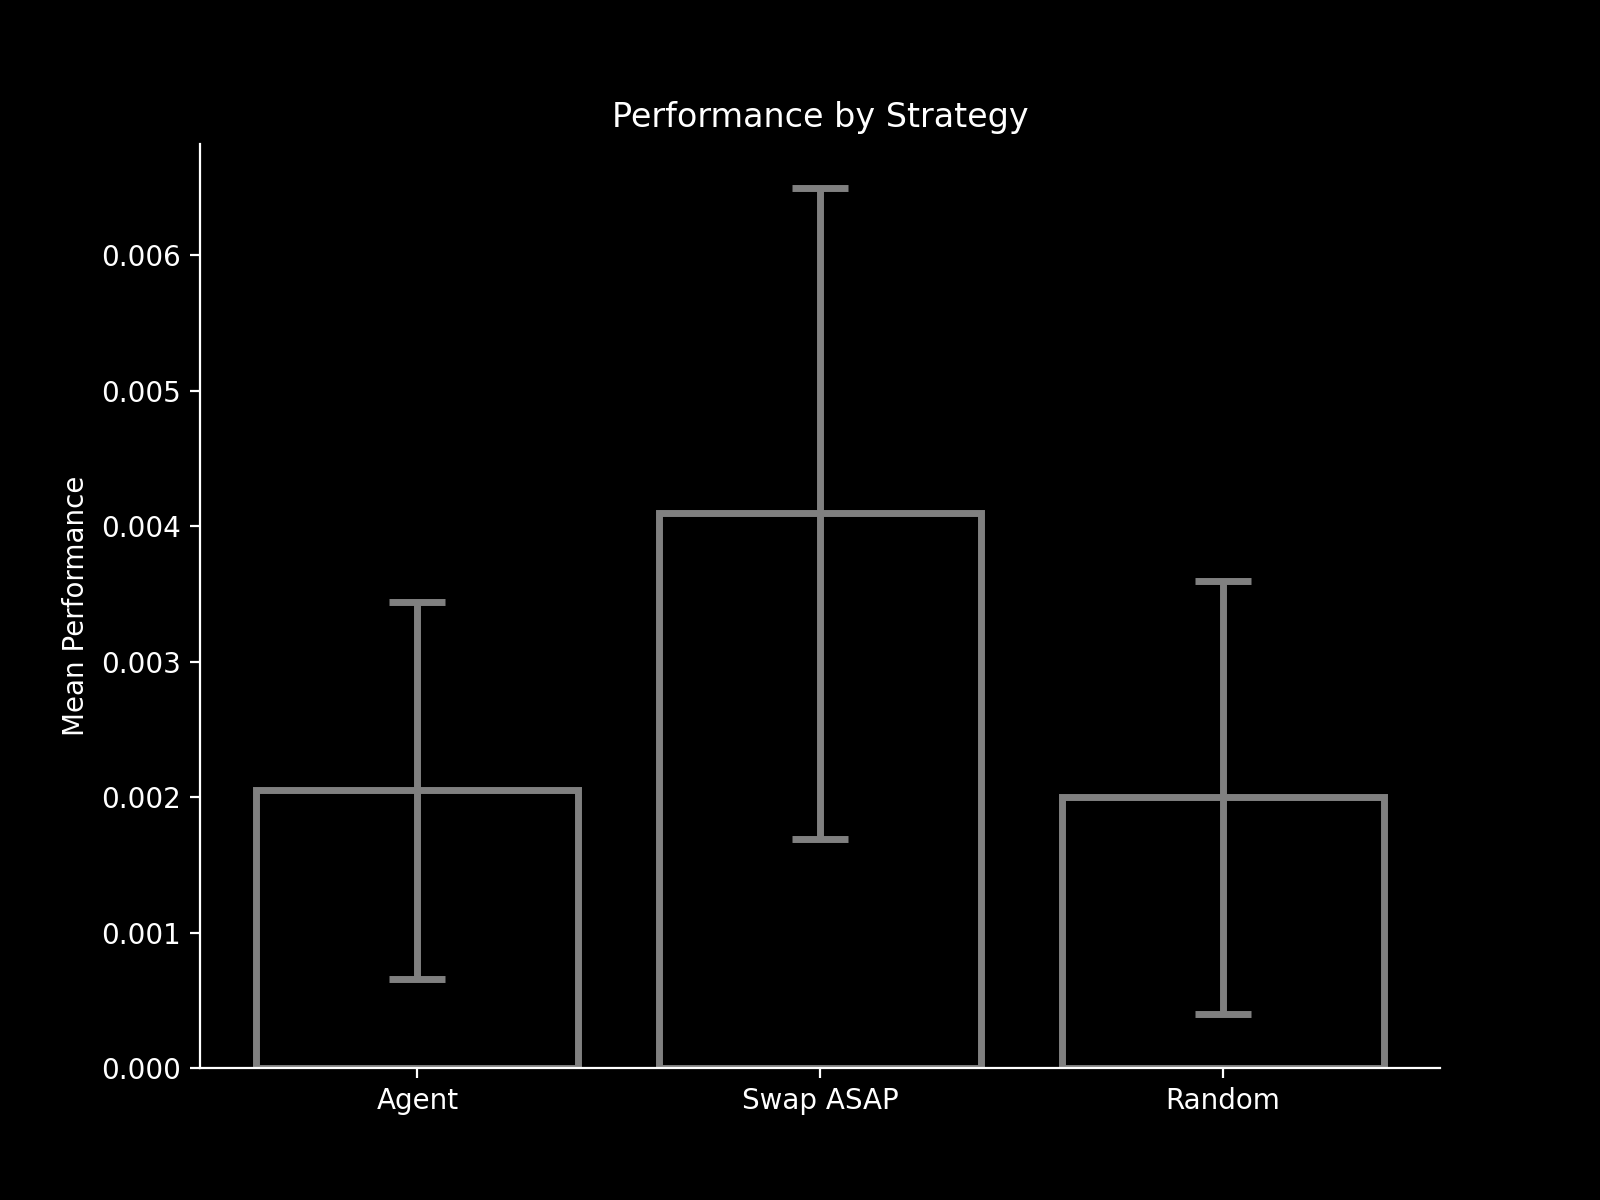
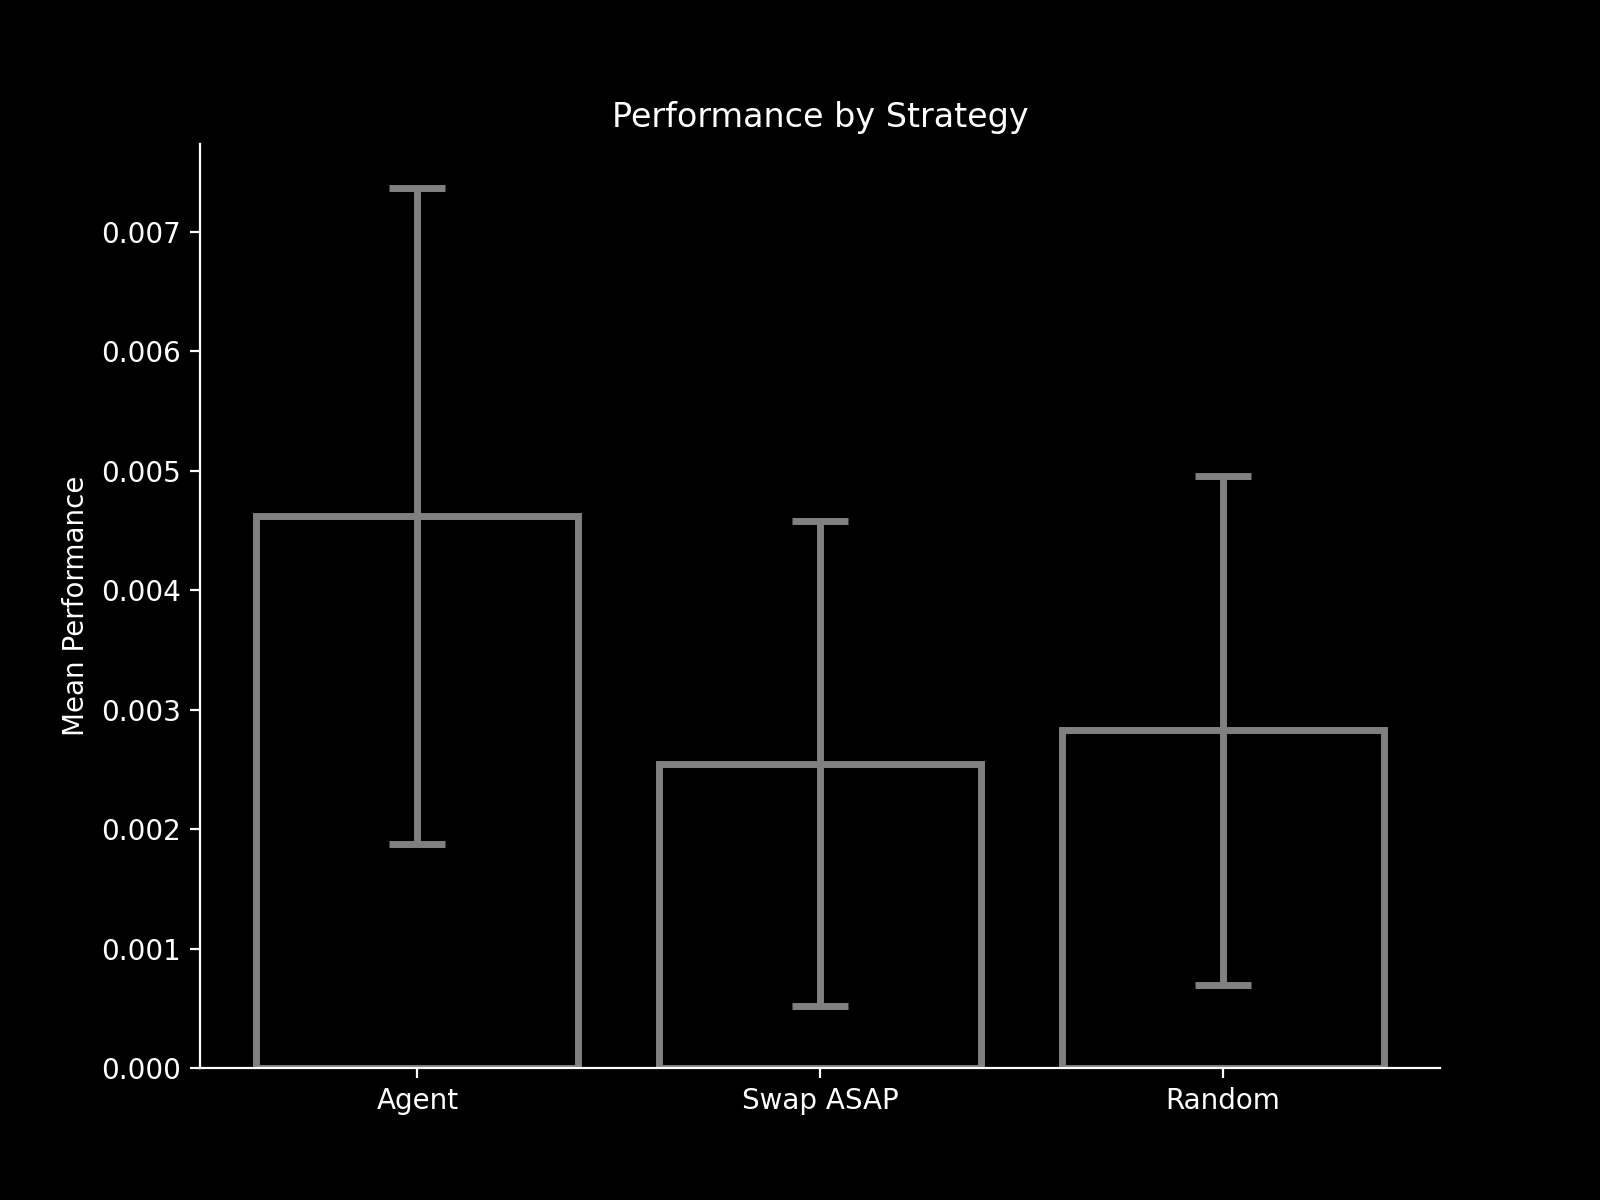
code: minor changes

diff --git a/src/stats.py b/src/stats.py
@@ -105,6 +105,7 @@ def test_stats(agent,
   plt.ylabel(f'Link rate for $(n, p_E, p_S, τ)$= {n_test, p_entangle, p_swap, tau}')
   plt.legend()
   plt.savefig('assets/test_stats.png') if savefig else None
+  plt.show()
   plt.close()
 
    #--- Plot performance stats ---
@@ -177,10 +178,10 @@ def n_scaling_test(experiments,
   plt.plot([n_test[0],n_test[-1]], [0,0], color='green')
   plt.fill_between(n_test, -s_err, s_err, color='green', alpha=0.1)
 
-  plt.plot(n_test, performance_array, 'gD', color='blue', label=f'Relative performance')
+  plt.plot(n_test, performance_array, color='blue', label=f'Relative performance')
   plt.fill_between(n_test, performance_array-errors, performance_array+errors, color='blue', alpha=0.1)
   plt.legend()
-  plt.ylabel(f'$(p_e, p_s, τ)=(0.5, 0.5, 100)$')
+  plt.ylabel(f'$(p_e, p_s, τ)=({p_e}, {p_s}, {tau})$')
   plt.title(f'Relative performance scaling')
   plt.xlabel(f'$n$')
   plt.xticks(n_test)

diff --git a/src/main.py b/src/main.py
@@ -26,11 +26,11 @@ if __name__ == '__main__':
 					p_swap=0.85)
 
 	#Train ONCE to use for testing (also save the model)
-	agent.train(episodes=10_000, plot=True, save_model=False)
+	agent.train(episodes=20_000, plot=True, save_model=False)
 
 	# Now gather validation statistics
 	test_stats(agent=agent, 
-			experiments=2, 
+			experiments=10, 
 			n_test = 6, 
 			p_entangle=0.5, 
 			p_swap=0.95, 
